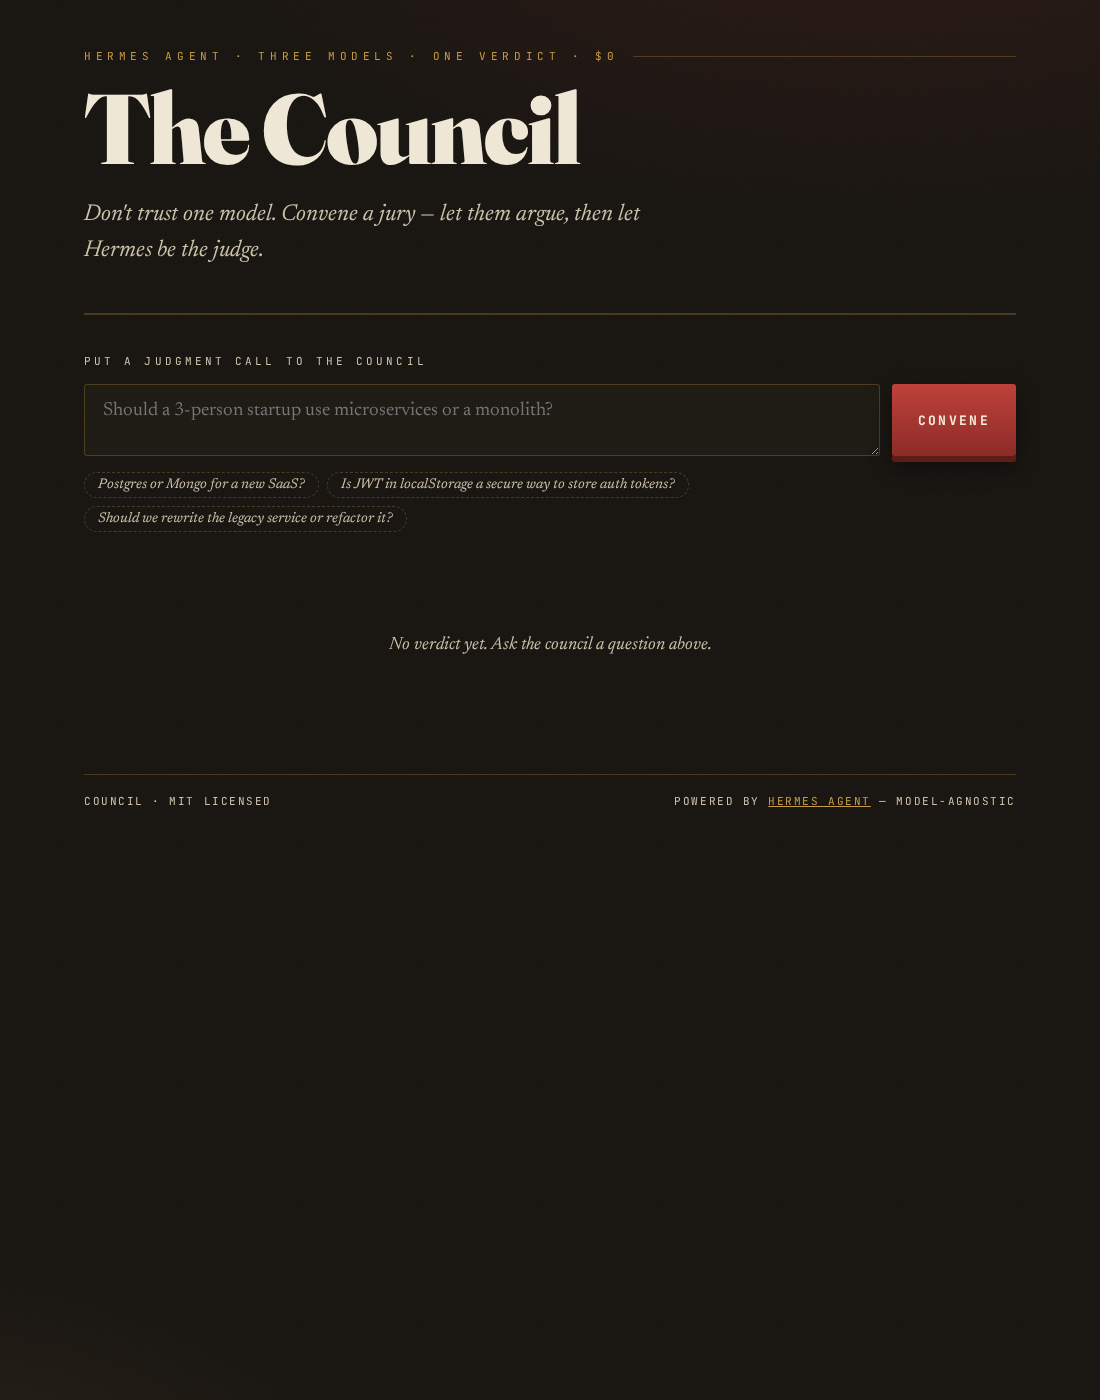
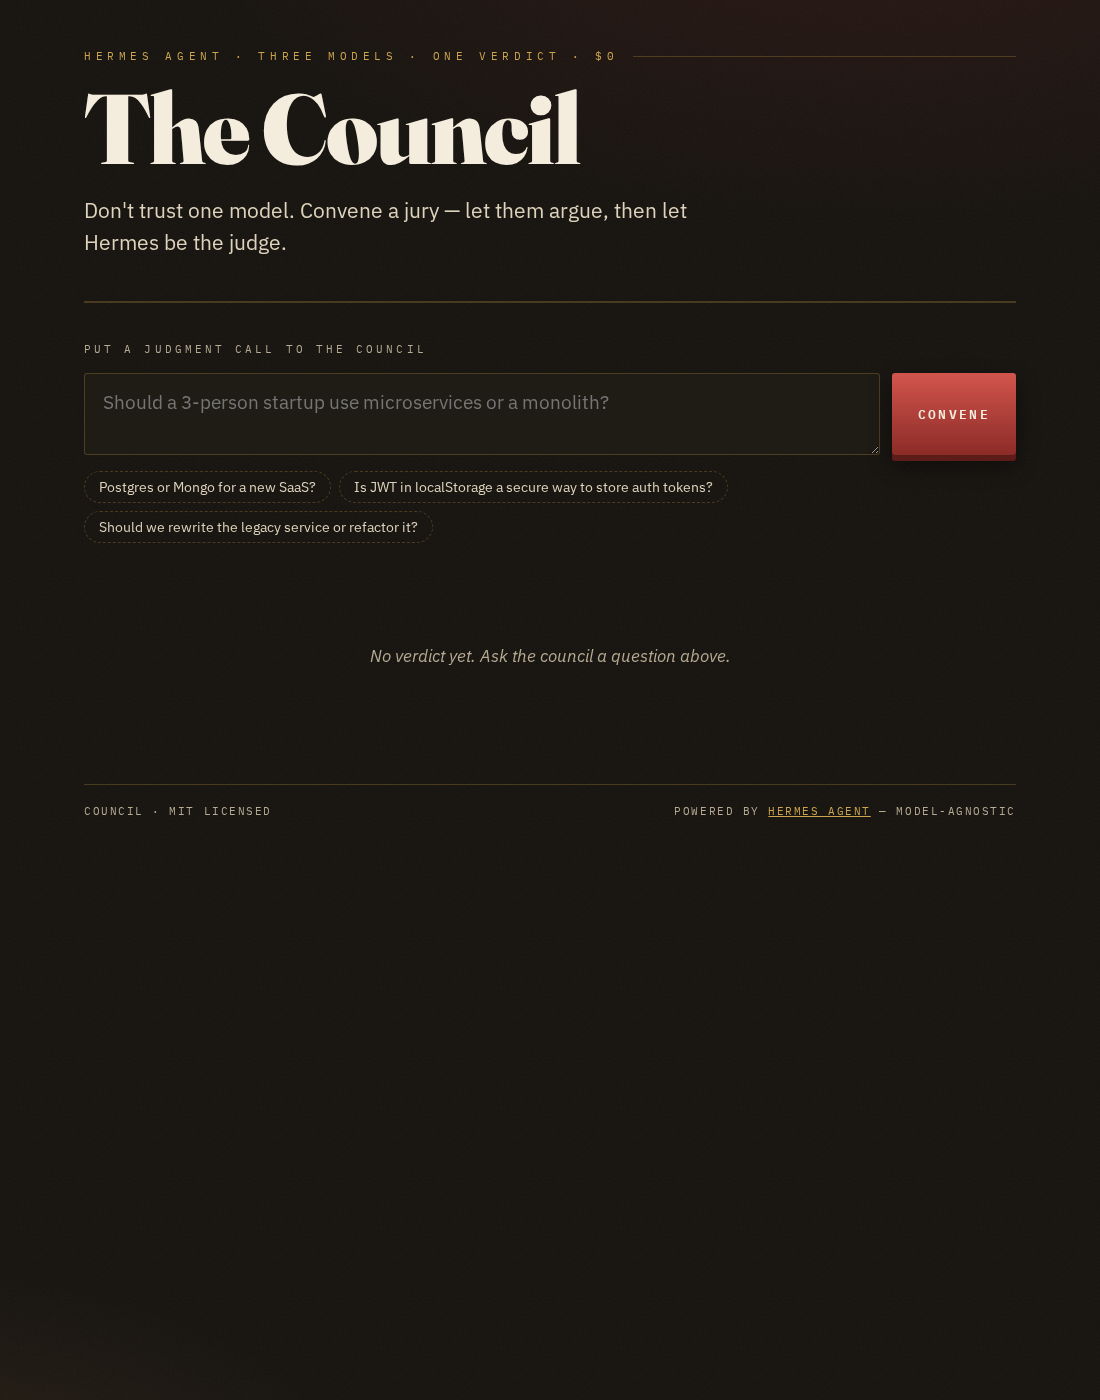
style(ui): readable type system (IBM Plex Sans/Mono, Fraunces as masthead accent)

diff --git a/index.html b/index.html
@@ -6,30 +6,34 @@
 <title>Council — Convene the Jury</title>
 <link rel="preconnect" href="https://fonts.googleapis.com" />
 <link rel="preconnect" href="https://fonts.gstatic.com" crossorigin />
-<link href="https://fonts.googleapis.com/css2?family=Fraunces:ital,opsz,wght@0,9..144,400;0,9..144,600;0,9..144,900;1,9..144,500&family=Newsreader:ital,opsz@0,6..72;1,6..72&family=JetBrains+Mono:wght@400;700&display=swap" rel="stylesheet" />
+<link href="https://fonts.googleapis.com/css2?family=Fraunces:opsz,wght@9..144,600;9..144,900&family=IBM+Plex+Sans:ital,wght@0,400;0,500;0,600;0,700;1,400&family=IBM+Plex+Mono:wght@400;500;600&display=swap" rel="stylesheet" />
 <style>
   :root{
     --ink:#16130f;
     --ink-2:#1f1b15;
-    --parch:#efe7d6;
-    --parch-dim:#cdc2ab;
+    --parch:#f4ecdd;
+    --parch-2:#ded3bc;
+    --parch-dim:#b6ab93;
     --oxblood:#8c2b27;
-    --oxblood-bright:#c0413b;
-    --brass:#c79a45;
+    --oxblood-bright:#d2554d;
+    --brass:#cda54e;
     --brass-bright:#e7c477;
-    --j1:#5a8f8b;   /* sea-slate  */
-    --j2:#b9743f;   /* terracotta */
-    --j3:#7d6aa8;   /* aubergine  */
-    --green:#6c9c5a;
-    --amber:#caa14a;
-    --red:#bb4a3f;
+    --j1:#6fb0aa;   /* sea-slate  */
+    --j2:#d08a4e;   /* terracotta */
+    --j3:#9784c4;   /* aubergine  */
+    --green:#7fb463;
+    --amber:#d6ad55;
+    --red:#cf584b;
     --line:rgba(199,154,69,.28);
+    --display:"Fraunces",Georgia,serif;
+    --sans:"IBM Plex Sans",system-ui,-apple-system,Segoe UI,sans-serif;
+    --mono:"IBM Plex Mono",ui-monospace,monospace;
   }
   *{box-sizing:border-box}
   html{scroll-behavior:smooth}
   body{
     margin:0;min-height:100vh;color:var(--parch);
-    font-family:"Newsreader",Georgia,serif;font-size:18px;line-height:1.55;
+    font-family:var(--sans);font-size:17px;line-height:1.6;-webkit-font-smoothing:antialiased;
     background:
       radial-gradient(1200px 600px at 80% -10%, rgba(140,43,39,.20), transparent 60%),
       radial-gradient(900px 500px at -10% 110%, rgba(199,154,69,.12), transparent 55%),
@@ -44,23 +48,23 @@
 
   /* ---------- masthead ---------- */
   header{border-bottom:2px solid var(--line);padding-bottom:22px;margin-bottom:34px}
-  .kicker{font-family:"JetBrains Mono",monospace;font-size:11px;letter-spacing:.42em;
+  .kicker{font-family:var(--mono);font-size:11px;letter-spacing:.42em;
     text-transform:uppercase;color:var(--brass);display:flex;gap:14px;align-items:center}
   .kicker::after{content:"";flex:1;height:1px;background:var(--line)}
-  h1{font-family:"Fraunces",serif;font-weight:900;font-size:clamp(46px,9vw,108px);
+  h1{font-family:var(--display);font-weight:900;font-size:clamp(46px,9vw,108px);
     line-height:.92;margin:.18em 0 .1em;letter-spacing:-.02em;color:var(--parch)}
   h1 .amp{color:var(--oxblood-bright);font-style:italic;font-weight:500}
-  .dek{font-style:italic;font-size:clamp(18px,2.4vw,23px);color:var(--parch-dim);max-width:46ch}
+  .dek{font-size:clamp(17px,2.1vw,21px);color:var(--parch-2);max-width:50ch;line-height:1.5}
 
   /* ---------- ask ---------- */
   .ask{margin:38px 0 12px;display:flex;flex-direction:column;gap:14px}
-  label.q{font-family:"JetBrains Mono",monospace;font-size:11px;letter-spacing:.28em;
+  label.q{font-family:var(--mono);font-size:11px;letter-spacing:.28em;
     text-transform:uppercase;color:var(--parch-dim)}
   .field{display:flex;gap:12px;flex-wrap:wrap}
   textarea{
     flex:1;min-width:260px;min-height:64px;resize:vertical;
     background:var(--ink-2);color:var(--parch);border:1px solid var(--line);
-    border-radius:3px;padding:16px 18px;font-family:"Newsreader",serif;font-size:19px;
+    border-radius:3px;padding:16px 18px;font-family:var(--sans);font-size:19px;
     transition:border-color .25s, box-shadow .25s;
   }
   textarea:focus{outline:none;border-color:var(--brass);
@@ -68,7 +72,7 @@
   button.convene{
     background:linear-gradient(180deg,var(--oxblood-bright),var(--oxblood));
     color:#f7eede;border:none;border-radius:3px;cursor:pointer;
-    font-family:"JetBrains Mono",monospace;font-weight:700;font-size:13px;
+    font-family:var(--mono);font-weight:700;font-size:13px;
     letter-spacing:.18em;text-transform:uppercase;padding:0 26px;min-height:64px;
     box-shadow:0 6px 0 #5e1c19, 0 10px 22px rgba(0,0,0,.45);
     transition:transform .08s ease, box-shadow .08s ease;align-self:stretch;
@@ -78,14 +82,14 @@
   button.convene:disabled{opacity:.55;cursor:wait}
   .chips-suggest{display:flex;flex-wrap:wrap;gap:8px;margin-top:2px}
   .chips-suggest button{
-    background:transparent;border:1px dashed var(--line);color:var(--parch-dim);
-    border-radius:999px;padding:5px 13px;cursor:pointer;font-family:"Newsreader",serif;
-    font-style:italic;font-size:14px;transition:.2s}
+    background:transparent;border:1px dashed var(--line);color:var(--parch-2);
+    border-radius:999px;padding:6px 14px;cursor:pointer;font-family:var(--sans);
+    font-size:14px;transition:.2s}
   .chips-suggest button:hover{border-color:var(--brass);color:var(--brass-bright)}
 
   /* ---------- verdict ---------- */
   #stage{margin-top:40px}
-  .gavel{display:none;text-align:center;font-family:"JetBrains Mono",monospace;
+  .gavel{display:none;text-align:center;font-family:var(--mono);
     letter-spacing:.3em;color:var(--brass);text-transform:uppercase;font-size:12px}
   .gavel.show{display:block;animation:rap .5s ease}
   @keyframes rap{0%{transform:rotate(-14deg) translateY(-8px);opacity:0}
@@ -102,11 +106,11 @@
   .vc-top{display:grid;grid-template-columns:1fr auto;gap:24px;align-items:center;
     padding:30px 32px;border-bottom:1px solid var(--line);
     background:radial-gradient(600px 200px at 0% 0%,rgba(140,43,39,.18),transparent)}
-  .vc-label{font-family:"JetBrains Mono",monospace;font-size:11px;letter-spacing:.34em;
+  .vc-label{font-family:var(--mono);font-size:11px;letter-spacing:.34em;
     text-transform:uppercase;color:var(--brass)}
-  .vc-verdict{font-family:"Fraunces",serif;font-weight:600;font-size:clamp(24px,4vw,38px);
-    line-height:1.15;margin:.25em 0 0;color:var(--parch)}
-  .vc-topic{font-family:"JetBrains Mono",monospace;font-size:11px;color:var(--parch-dim);
+  .vc-verdict{font-family:var(--sans);font-weight:600;font-size:clamp(23px,3.4vw,34px);
+    line-height:1.22;margin:.25em 0 0;color:var(--parch);letter-spacing:-.01em}
+  .vc-topic{font-family:var(--mono);font-size:11px;color:var(--parch-dim);
     margin-top:10px;letter-spacing:.12em}
 
   /* dial */
@@ -114,10 +118,10 @@
   .dial svg{transform:rotate(-90deg)}
   .dial .num{position:absolute;inset:0;display:flex;flex-direction:column;
     align-items:center;justify-content:center}
-  .dial .pct{font-family:"Fraunces",serif;font-weight:900;font-size:34px;line-height:1}
-  .dial .cap{font-family:"JetBrains Mono",monospace;font-size:9px;letter-spacing:.2em;
+  .dial .pct{font-family:var(--sans);font-weight:700;font-size:34px;line-height:1;letter-spacing:-.02em}
+  .dial .cap{font-family:var(--mono);font-size:9px;letter-spacing:.2em;
     text-transform:uppercase;color:var(--parch-dim);margin-top:4px}
-  .split-pill{font-family:"JetBrains Mono",monospace;font-size:12px;letter-spacing:.1em;
+  .split-pill{font-family:var(--mono);font-size:12px;letter-spacing:.1em;
     margin-top:8px;color:var(--parch);border:1px solid var(--line);border-radius:999px;
     padding:2px 10px;display:inline-block}
 
@@ -128,14 +132,14 @@
   .juror:last-child{border-right:none}
   .juror .top{display:flex;align-items:center;gap:9px;margin-bottom:10px}
   .dot{width:11px;height:11px;border-radius:50%;flex:none;box-shadow:0 0 12px currentColor}
-  .juror .name{font-family:"JetBrains Mono",monospace;font-size:11px;letter-spacing:.2em;
+  .juror .name{font-family:var(--mono);font-size:11px;letter-spacing:.2em;
     text-transform:uppercase}
-  .juror .model{font-family:"JetBrains Mono",monospace;font-size:10px;color:var(--parch-dim);
+  .juror .model{font-family:var(--mono);font-size:10px;color:var(--parch-dim);
     word-break:break-all;margin-bottom:12px;opacity:.8}
-  .juror .pos{font-family:"Fraunces",serif;font-weight:600;font-size:23px;margin-bottom:10px}
+  .juror .pos{font-family:var(--sans);font-weight:700;font-size:21px;margin-bottom:10px;letter-spacing:-.01em}
   .juror ul{margin:0;padding-left:18px}
-  .juror li{font-size:15px;color:var(--parch-dim);margin-bottom:5px;line-height:1.4}
-  .wbadge{position:absolute;top:18px;right:18px;font-family:"JetBrains Mono",monospace;
+  .juror li{font-size:15px;color:var(--parch-2);margin-bottom:6px;line-height:1.5}
+  .wbadge{position:absolute;top:18px;right:18px;font-family:var(--mono);
     font-size:10px;color:var(--brass);border:1px solid var(--line);border-radius:3px;
     padding:1px 6px}
 
@@ -143,7 +147,7 @@
   .panel{border-top:1px solid transparent}
   details{padding:0 32px}
   summary{cursor:pointer;list-style:none;padding:20px 0;display:flex;align-items:center;
-    gap:12px;font-family:"JetBrains Mono",monospace;font-size:12px;letter-spacing:.18em;
+    gap:12px;font-family:var(--mono);font-size:12px;letter-spacing:.18em;
     text-transform:uppercase;color:var(--oxblood-bright)}
   summary::-webkit-details-marker{display:none}
   summary .tri{transition:transform .25s}
@@ -152,18 +156,18 @@
   .dissent-body .row{border-left:2px solid var(--oxblood);padding:6px 0 6px 16px;
     margin-bottom:12px;color:var(--parch);font-style:italic}
   .agree{padding:4px 0 26px}
-  .agree h4,.dissent-body h4{font-family:"JetBrains Mono",monospace;font-size:11px;
+  .agree h4,.dissent-body h4{font-family:var(--mono);font-size:11px;
     letter-spacing:.24em;text-transform:uppercase;color:var(--parch-dim);margin:0 0 10px}
   .agree li{color:var(--parch-dim)}
 
   .empty{color:var(--parch-dim);font-style:italic;text-align:center;padding:60px 20px}
-  .err{color:var(--oxblood-bright);font-family:"JetBrains Mono",monospace;font-size:14px}
-  .mock-note{font-family:"JetBrains Mono",monospace;font-size:10px;color:var(--brass);
+  .err{color:var(--oxblood-bright);font-family:var(--mono);font-size:14px}
+  .mock-note{font-family:var(--mono);font-size:10px;color:var(--brass);
     text-align:center;padding:14px;letter-spacing:.1em;border-top:1px solid var(--line)}
 
   footer{margin-top:54px;border-top:1px solid var(--line);padding-top:18px;
     display:flex;justify-content:space-between;flex-wrap:wrap;gap:8px;
-    font-family:"JetBrains Mono",monospace;font-size:11px;color:var(--parch-dim);
+    font-family:var(--mono);font-size:11px;color:var(--parch-dim);
     letter-spacing:.14em}
   footer a{color:var(--brass)}
   .spin{display:inline-block;width:14px;height:14px;border:2px solid rgba(247,238,222,.4);
